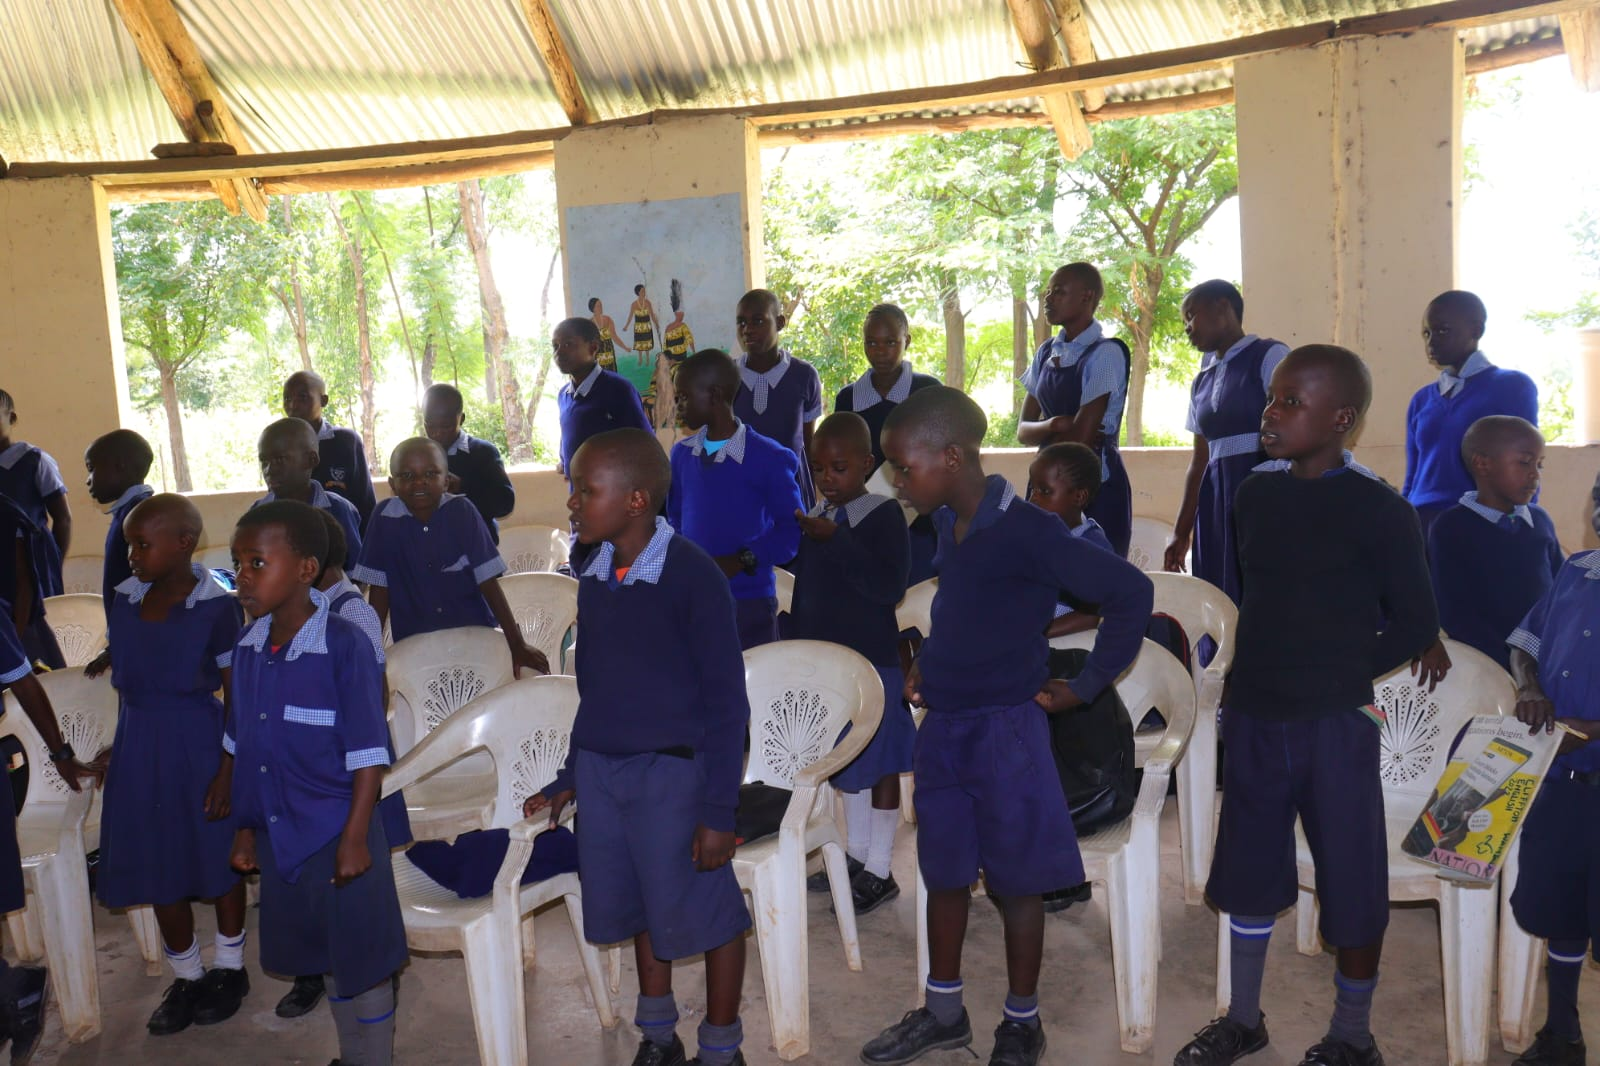
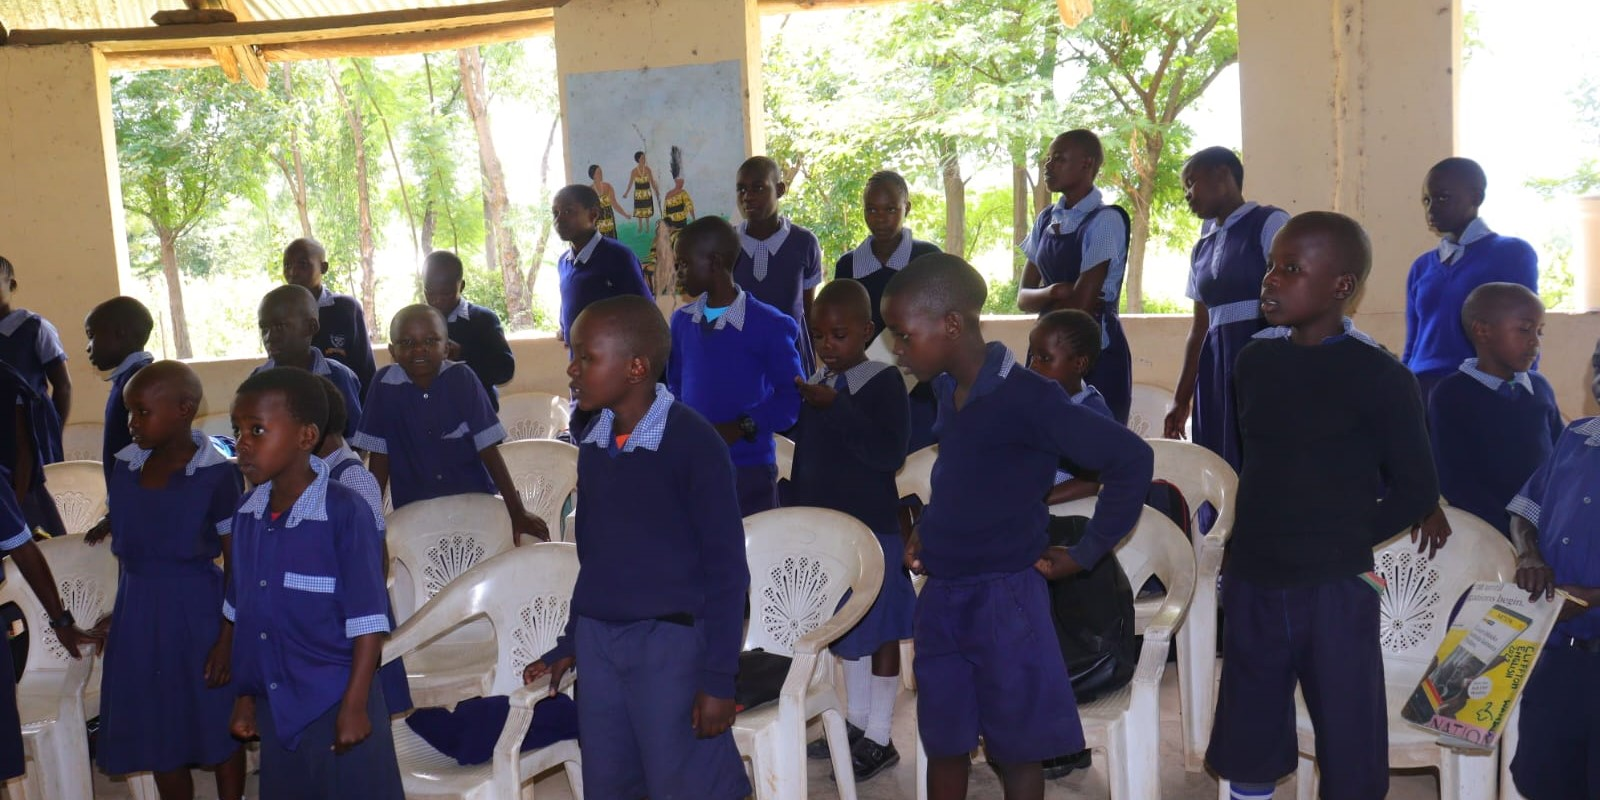
resized the slideshow photos

diff --git a/index.html b/index.html
@@ -33,7 +33,7 @@
         <div class="mySlides fade">
           <div class="slide">
           <div class="numbertext">1 of 6</div>
-          <img src="images/logo.jpg" style="width:90%">
+          <img src="images/pupil 6.jpg" style="width:100%">
           <div class="caption">Logo.</div>
         </div>
       </div>
@@ -141,7 +141,7 @@
         with only 50 meters from Bosio Market.<br>
 </p>
 <div class="center">
-<img id="myImage" src="images/pupil 5.jpg" alt="Blinking Image" width="300" height="200">
+<img id="myImage" src="images/pupil 5.jpg" alt="Blinking Image" width="400" height="200">
 </div>
 <h1><b>Enrollment</b></h1>
         <p> <b>2023</b> total pupils enrollment is about 294 from Pre-Primary, and primary.

diff --git a/slide.js b/slide.js
@@ -22,4 +22,4 @@ document.addEventListener("DOMContentLoaded", function() {
     image.classList.toggle('blink');
   }
 
-  setInterval(blinkImage, 500); // Toggle visibility every 500 milliseconds
+  setInterval(blinkImage, 1000); // Toggle visibility every 500 milliseconds

diff --git a/style1.css b/style1.css
@@ -64,7 +64,7 @@ img {vertical-align: stretch;}
 
 /* Slideshow container */
 .slideshow-container {
-  width: 100%;
+  width: 90%;
   position: relative;
   margin: auto;
   padding-top: 0%;
